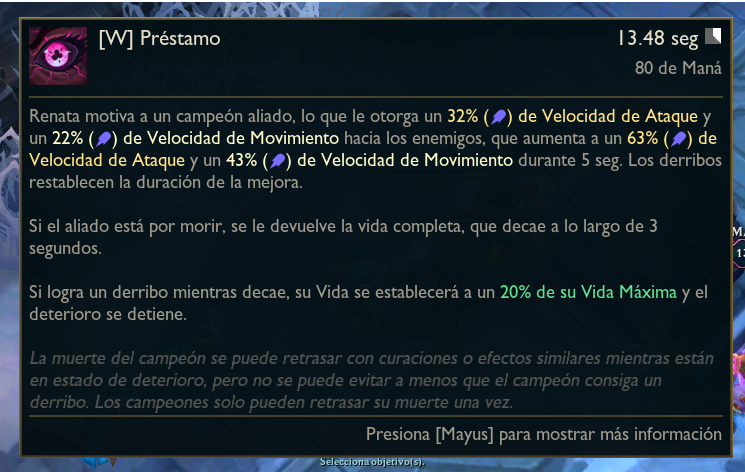
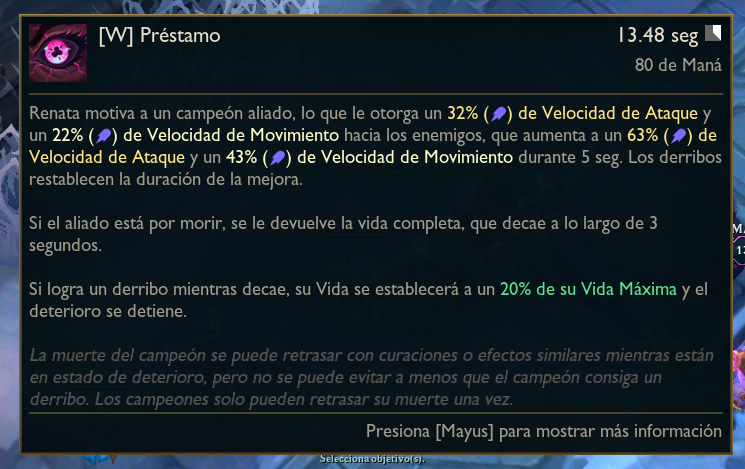
versionFinal

diff --git a/index.html b/index.html
@@ -4,15 +4,17 @@
     <meta charset="UTF-8">
     <meta http-equiv="X-UA-Compatible" content="IE=edge">
     <meta name="viewport" content="width=device-width, initial-scale=1.0">
-    <title>Práctica avanzada Css - Edición N°1</title>
+    <title>Herramienta de Práctica Css - Edición N°1</title>
     <link rel="preconnect" href="https://fonts.googleapis.com">
-<link rel="preconnect" href="https://fonts.gstatic.com" crossorigin>
-<link href="https://fonts.googleapis.com/css2?family=Raleway&family=Roboto+Mono&display=swap" rel="stylesheet">
+    <link rel="preconnect" href="https://fonts.googleapis.com">
+    <link rel="preconnect" href="https://fonts.gstatic.com" crossorigin>
+    <link rel="stylesheet" href="https://fonts.googleapis.com/css2?family=Material+Symbols+Outlined:opsz,wght,FILL,GRAD@20..48,100..700,0..1,-50..200" />
+    <link href="https://fonts.googleapis.com/css2?family=Montserrat:wght@300;400&family=Raleway:wght@300;400&family=Roboto+Mono&display=swap" rel="stylesheet">
     <link rel="stylesheet" href="styles.css">
 </head>
 <body class="document">
     <header class="header">
-        <h1 class="title">Práctica de Diseño Web - Mirror test con JS -</h1>
+        <h1 class="title">Herramienta de Práctica Css - Mirror test con JS -</h1>
         <nav class="navBar">
             <ul>
                 <li class="navItem"><a class="navLink" href="">Home</a></li>
@@ -23,51 +25,43 @@
     </header>
 
     <main class="main">
-
-        <div class="modelo">
-
-        </div>
-
-
-        <div class="resultadoContainer">
-            <div class="resultado">
+        <div class="modelosContainer" id="slider">
+            <div class="modelo">
 
             </div>
         </div>
 
+        <div class="resultadoContainer">
+            <div class="resultado">
 
+                <div class="cardHeader">
+                    <div class="cardImg"></div>
+                    <div class="cardTitleContainer">
+                        <h4 class="cardTitles">[W] Préstamo</h4></div>
+                    <div class="cardSubTitleContainer">
+                        <h4 class="cardSubTitle">13.48 seg[ ]</h4>
+                        <h4 class="cardSubTitle2">80 de Maná</h4>
+                    </div>
+                </div>
 
+                <div class="cardMain">
+                    <p class="mainText">Renata motiva a un campeón aliado, lo que le otorga un <span class="velocidadAtaque">32% (<span class="material-symbols-outlined iconoPoder">electric_bolt</span>) de Velocidad de Ataque</span> y un <span class="velocidadMovimiento">22% (<span class="material-symbols-outlined iconoPoder">electric_bolt</span>) de Velocidad de Movimiento</span> hacia los enemigos que aumenta a un <span class="velocidadAtaque">63% (<span class="material-symbols-outlined iconoPoder">
+                    electric_bolt</span>) de Velocidad de Ataque</span> y un <span class="velocidadMovimiento">43% (<span class="material-symbols-outlined iconoPoder">electric_bolt</span>) de Velocidad de Movimiento</span> durante 5 seg. Los derribos reestablecen la duración de la mejora.</p>
+                    <p class="mainText">Si el aliado esta por morir, se le devuelve la vida completa que decae a lo largo de 3 segundos.</p>
+                    <p class="mainText">Si logra un derribo mientras decae, su Vida se establecerá a un <span class="vidaMaxima">20% de su Vida Máxima</span> y el deterioro se detiene.</p>
+                    <p style="font-style: italic;" class="mainText mainTextColor">La muerte del campeón se puede retrasar con curaciones o efectos similares mientras están en estado de deterioro, pero no se puede evitar a menos que el campeon consiga un derribo. Los campeones solo pueden retrasar su muerte una vez.</p>
+                </div>
 
-        
+                <div class="cardFooter">
+                    <p class="footerText">Presiona [Mayus] para mostrar mas información</p>
+                </div>
+            </div>
+        </div>
+
     </main>
     <footer class="footer">
         <h3 class="footerTitle">All rights reserverd. Co </h3>
     </footer>
-
-
-
-
-
-
-
-
-
-
-
-
-
-
-
-
-
-
-
-
-
-
-
-
-
 
     
 </body>

diff --git a/styles.css b/styles.css
@@ -22,7 +22,10 @@
     align-items: center;
     grid-column: 1/7;
     grid-row: 1/3;
-    border: 20px solid rgb(139, 74, 74);
+    border-top: 20px solid rgb(139, 74, 74);
+    border-bottom: 20px solid rgb(71, 38, 38);
+    border-left: 20px solid rgb(71, 38, 38);
+    border-right: 20px solid rgb(71, 38, 38);
 }
 .title{
     display: inline-block;
@@ -43,6 +46,10 @@
     margin: 0 25px;
     text-decoration: none;
 }
+.navLink:hover{
+    transition: .3s;
+    color: #cc9c2c;
+}
 
 /* main */
 
@@ -55,7 +62,7 @@
     border-bottom: 10px solid rgb(37, 37, 15);
     border-top: 10px solid #957f4c;
     border-left: 10px solid rgb(37, 37, 15);
-    border-right: 10px solid rgb(37, 37, 15);
+    border-right: 10px solid #957f4c;
     column-gap: 200px;
     padding: 50px;
 }
@@ -64,6 +71,7 @@
     width: 745px;
     height: 472px;
     background-image: url(assets/images/Diseño\ Modelo.png);
+    background-size: cover;
 }
 .resultadoContainer{
     display: flex;
@@ -71,16 +79,118 @@
     justify-content: center;
     width: 745px;
     height: 472px;
-    background-color: #ccc;
+    background-color: #111;
 }
 .resultado{
+    display: grid;
+    grid-template-rows: repeat(8, 1fr);
+    grid-template-columns: 1fr;
     width: 95%;
     height: 92%;
+    padding: 8px;
     background-color: #051219;
     border-top: 3px solid #957f4c;
     border-bottom:3px solid #5c5535;
     border-left: 3px solid #343324;
     border-right: 3px solid #343324;
+}
+
+.cardHeader{
+    display: grid;
+    grid-template-columns: repeat(12, 1fr);
+    grid-template-rows: 1fr;
+    grid-row: 1/3;
+    border-bottom: 2px solid #957f4c;
+}
+.cardImg{
+    display: flex;
+    align-items: center;
+    justify-content: center;
+    grid-column: 1/3;
+    width: 80% ;
+    height: 80%;
+    padding: 5px;
+    background-image: url(assets/images/wPrestamo.jpg);
+    background-size: contain;
+}
+.cardTitleContainer{
+    grid-column: 3/11;
+}
+.cardTitles{
+    display: inline-block;
+    font-family: 'Montserrat', sans-serif;
+    font-size: 20px;
+    font-weight: 400;
+    letter-spacing: .5px;
+    color: #e3dac7;
+}
+.cardSubTitleContainer{
+    display: flex;
+    flex-direction: column;
+    align-items: flex-end;
+    grid-column: 11/13;
+}
+.cardSubTitle{
+    display: inline-block;
+    margin-bottom: 10px;
+    font-family: 'Montserrat', sans-serif;
+    font-size: 20px;
+    font-weight: 400;
+    letter-spacing: .5px;
+    color: #e3dac7;
+}
+.cardSubTitle2{
+    display: inline-block;
+    font-family: 'Montserrat', sans-serif;
+    font-size: 17px;
+    font-weight: 600;
+    color: #969285;
+}
+
+.cardMain{
+    display: flex;
+    flex-direction: column;
+    justify-content: space-between;
+    grid-row: 3/8;
+    padding: 10px 2px;
+}
+.mainText{
+    display: inline-block;
+    font-family: 'Montserrat', sans-serif;
+    font-size: 15px;
+    font-weight: 600;
+    color: #969285;
+}
+.iconoPoder{
+    color:#796bff;
+    font-size: 15px;
+    font-weight: 600;
+}
+.mainTextColor{
+    color: #4f504e;
+}
+.velocidadMovimiento{
+    color:#dedeb2;
+}
+.velocidadAtaque{
+    color:#fade82;
+}
+.vidaMaxima{
+    color:#52c27e;
+}
+.cardFooter{
+    display: flex;
+    justify-content: flex-end;
+    align-items: center;
+    grid-row: 8/9;
+    border-top: 2px solid #957f4c;
+}
+.footerText{
+    display: inline-block;
+    font-family: 'Montserrat', sans-serif;
+    font-size: 17px;
+    font-weight: 600;
+    color: #969285;
 }
 
 /* footer */
@@ -91,7 +201,10 @@
     justify-content: center;
     grid-column: 1/7;
     grid-row: 12/13;
-    border: 20px solid rgb(139, 74, 74);
+    border-top: 20px solid rgb(139, 74, 74);
+    border-bottom: 20px solid rgb(71, 38, 38);
+    border-left: 20px solid rgb(71, 38, 38);
+    border-right: 20px solid rgb(71, 38, 38);
 }
 .footerTitle{
     font-family:'Raleway', sans-serif;

diff --git a/main.js b/main.js
@@ -1,0 +1,14 @@
+// ARRAY DE IMAGENES
+const galeria = [];
+
+// SLIDER c/ eventos
+
+let changeImg =>{
+
+};
+
+let slider = document.getElementById("slider");
+slider.addEventListener("click,changeImg");
+
+
+// OBJETO EDITOR DE CODIGO 
